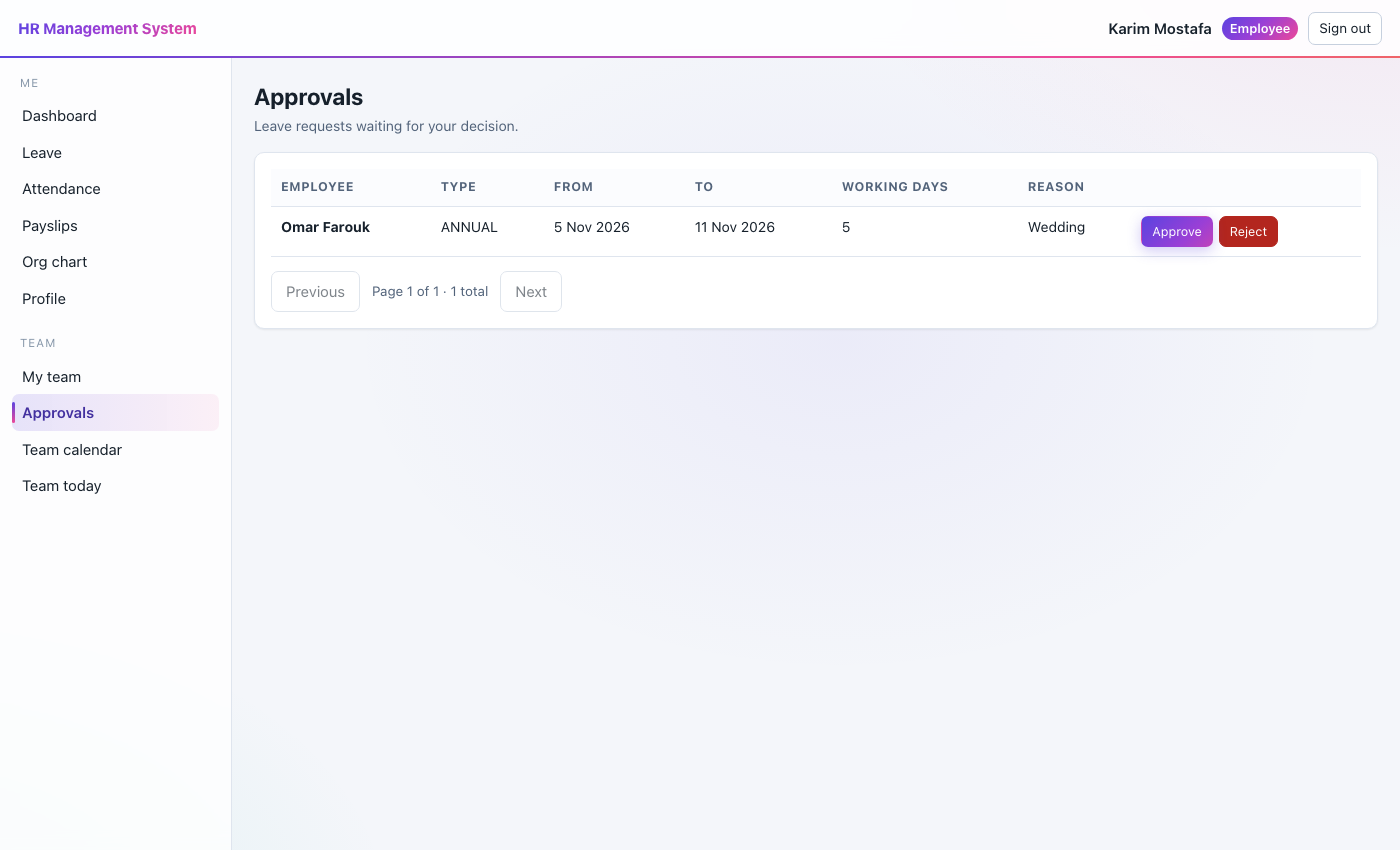
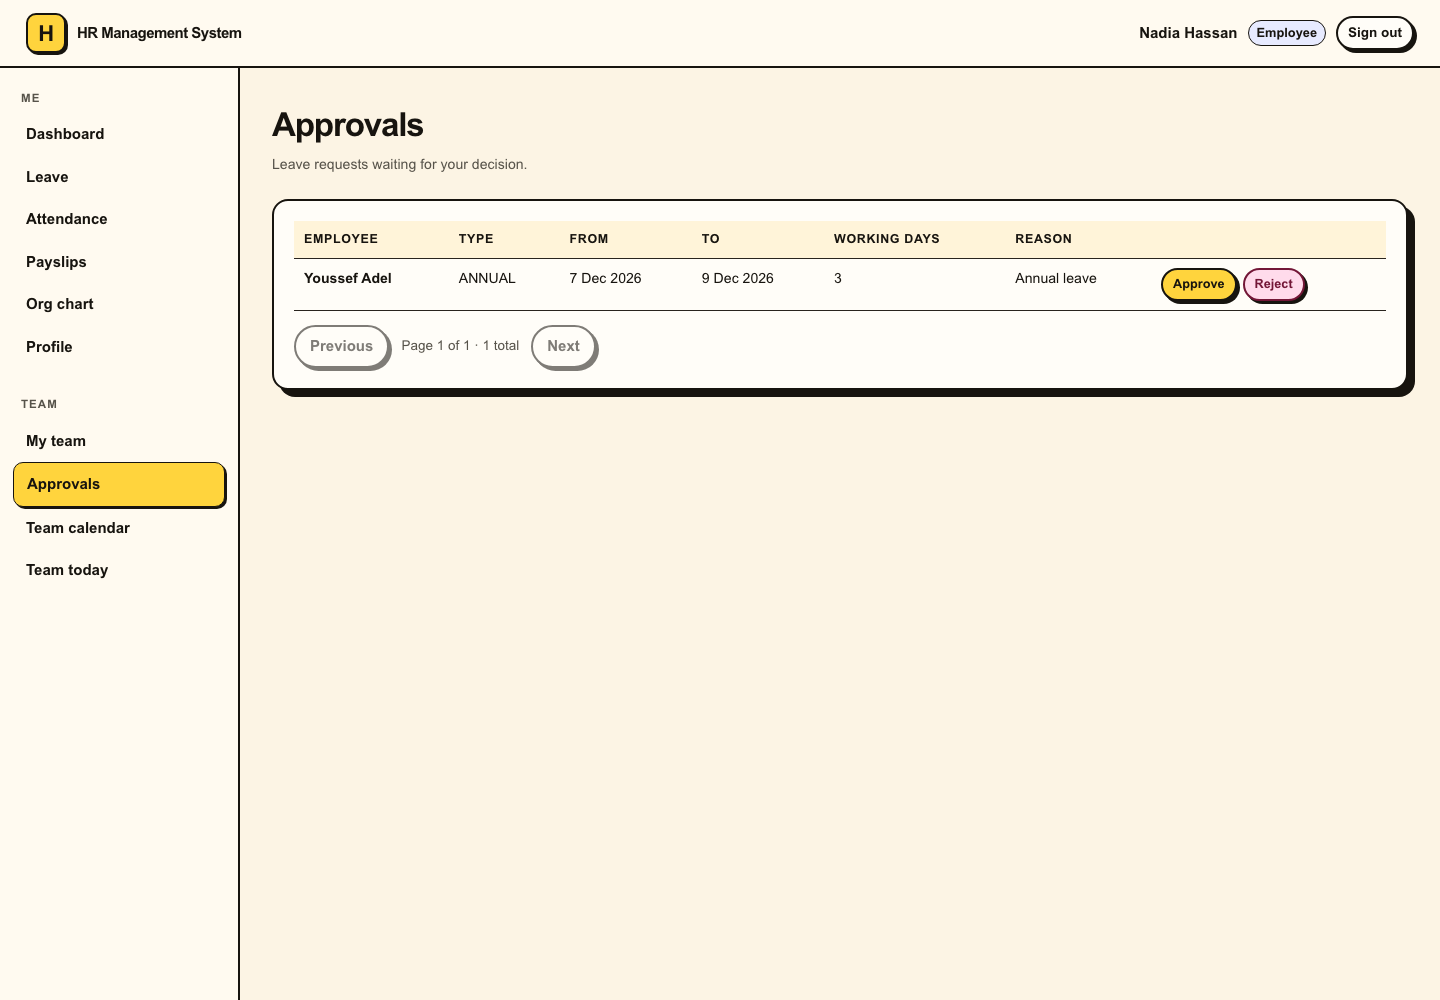
Refresh HR README and screenshots to match current UI and API

diff --git a/hr-management-system/README.md b/hr-management-system/README.md
@@ -117,7 +117,9 @@ docker compose --env-file .env.local --profile app down
   `LOGIN_FAILURE_WINDOW`, default 15 min) with 429. Behind the nginx proxy the real client IP is used
   (`X-Forwarded-For`, trusted only from private-network proxies), so one visitor cannot lock another out.
   There is no public registration: HR/ADMIN create accounts.
-- CI: [`.github/workflows/ci.yml`](.github/workflows/ci.yml) runs `./mvnw -B verify` on Java 21.
+- CI: [`.github/workflows/hr-management-system.yml`](../.github/workflows/hr-management-system.yml) runs the
+  backend `./mvnw -B verify` on Java 21, the frontend audits/lint/tests/build, and the Playwright browser tests
+  against an isolated Docker stack.
 
 ## API
 
@@ -137,7 +139,8 @@ docker compose --env-file .env.local --profile app down
 | GET | `/api/employees/me/team` | direct reports |
 | GET | `/api/employees/me/team/all` | all descendants with their `depth` |
 | GET | `/api/employees/{id}/chain` | management chain upwards to the root |
-| GET | `/api/org-chart` | any authenticated user — nested company tree |
+| GET | `/api/org-chart` | any authenticated user — root level, paged (`page`, `size` ≤ 200), each node with its `childCount` |
+| GET | `/api/org-chart/{employeeId}/children` | any authenticated user — one employee's direct reports, paged the same way |
 
 ### Leave
 
@@ -177,9 +180,10 @@ docker compose --env-file .env.local --profile app down
 | --- | --- | --- |
 | POST | `/api/payroll/runs` | HR, ADMIN — `{year, month}`; **idempotent**, a second call is 409 |
 | GET | `/api/payroll/runs` | HR, ADMIN — paged, newest month first |
-| GET | `/api/payroll/runs/{id}` | HR, ADMIN — totals + every payslip |
-| POST | `/api/payroll/runs/{id}/recalculate` | HR, ADMIN — DRAFT only, replaces the payslips; 409 once FINALIZED |
-| POST | `/api/payroll/runs/{id}/finalize` | HR, ADMIN — locks the run forever |
+| GET | `/api/payroll/runs/{id}` | HR, ADMIN — the run and its totals |
+| GET | `/api/payroll/runs/{id}/payslips` | HR, ADMIN — the run's payslips, paged (`page`, `size` ≤ 200) |
+| POST | `/api/payroll/runs/{id}/recalculate` | HR, ADMIN — DRAFT only, replaces the payslips under a row lock; 409 once FINALIZED |
+| POST | `/api/payroll/runs/{id}/finalize` | HR, ADMIN — locks the run forever; serialized with recalculate/delete |
 | DELETE | `/api/payroll/runs/{id}` | HR, ADMIN — DRAFT only; 409 once FINALIZED |
 | GET | `/api/payroll/runs/{id}/export.xlsx` | HR, ADMIN — register with a `SUM()` totals row |
 | GET | `/api/payroll/payslips/me` | self — **FINALIZED runs only** |
@@ -606,7 +610,9 @@ and days after leaving are not counted as absences.
   "reason" is stored with a change.
 - **Payroll rates are illustrative** (insurance and tax brackets are configurable examples, not legal or tax advice).
 - Leave is whole days only (no half days); attendance check-in/out is by API, there is no device integration.
-- Login throttling is in memory, so it is per instance and resets on restart.
+- Login throttling is in memory by default (per instance, reset on restart). Set
+  `LOGIN_RATE_LIMIT_STORE=redis` to share it between instances; that store fails open if Redis is unavailable.
+- Full-stack capacity was measured at 5,000 employees; 20,000 remains unverified.
 - The frontend consumes the API as-is: it hides what a role cannot use, but the server is always the authority.
 - No dedicated mobile layout beyond a responsive sidebar; no i18n (English only).
 
@@ -616,6 +622,7 @@ React 18 + TypeScript + Vite, plain CSS (no UI library), served by nginx in Dock
 
 ```bash
 docker compose --env-file .env.local --profile app up -d --build      # backend + PostgreSQL + frontend  ->  http://localhost:5175
+# native (no Docker):  python3 scripts/native.py start hr   from the repository root - see ../NATIVE.md
 # development:  cd frontend && npm install && npm run dev      (proxies /api to :8091)
 ```
 
@@ -638,13 +645,17 @@ on hover, click or keyboard focus (Escape closes it), with the *Sign in* title w
 ![Employees](docs/screenshots/hr-employees.png)
 ![Reports](docs/screenshots/hr-reports.png)
 
-The UI has a violet / pink / teal theme with motion throughout (page transitions, staggered cards, animated
-navigation, a cursor-following glow on cards, growing chart bars, modal and toast animations). Every animation
-switches off for visitors who enable *reduce motion* in their OS.
+The UI uses a warm-paper theme with bold outlines, offset shadows and yellow / blue / pink accents, plus motion
+(page transitions, staggered cards, growing chart bars, modal and toast animations). Every animation switches off
+for visitors who enable *reduce motion* in their OS. Org chart, manager search and payroll payslips load page by
+page, so large organisations stay responsive.
 
-Frontend tests: `cd frontend && npm test -- --run` (Vitest + Testing Library, fetch mocked). The full flow
-(forced password change, check-in, leave request, manager approval, salary hidden from the manager) was also driven
-through a real browser against the Docker stack.
+The screenshots above are regenerated from the running UI with fictional data only:
+`cd frontend && node scripts/capture-docs.mjs` (frontend running on :5175; no database is read).
+
+Frontend tests: `cd frontend && npm test -- --run` (Vitest + Testing Library, fetch mocked). Browser tests:
+`npm run e2e` drives sign-in, forced password change, check-in/out, leave request with manager approval, and a
+payroll create/recalculate/finalize run against a real backend and database.
 
 ### Frontend Dependency Audit & Security Status
 
@@ -663,7 +674,7 @@ Recheck after every dependency change:
 
 ```bash
 npm ci
-npm test -- --run     # 193 tests
+npm test -- --run
 npm run build
 npm run lint
 npm audit
